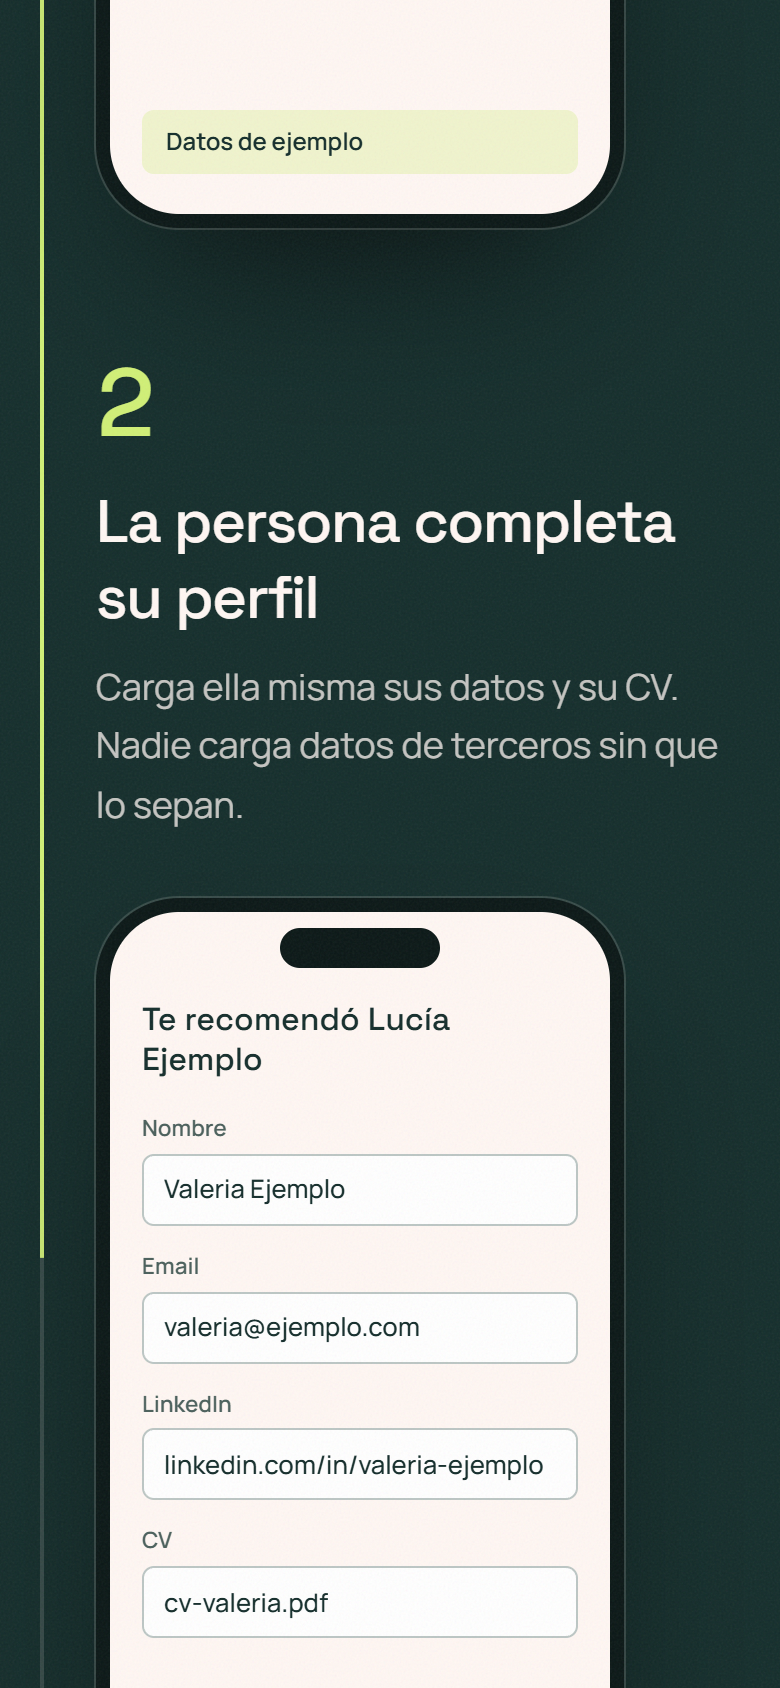
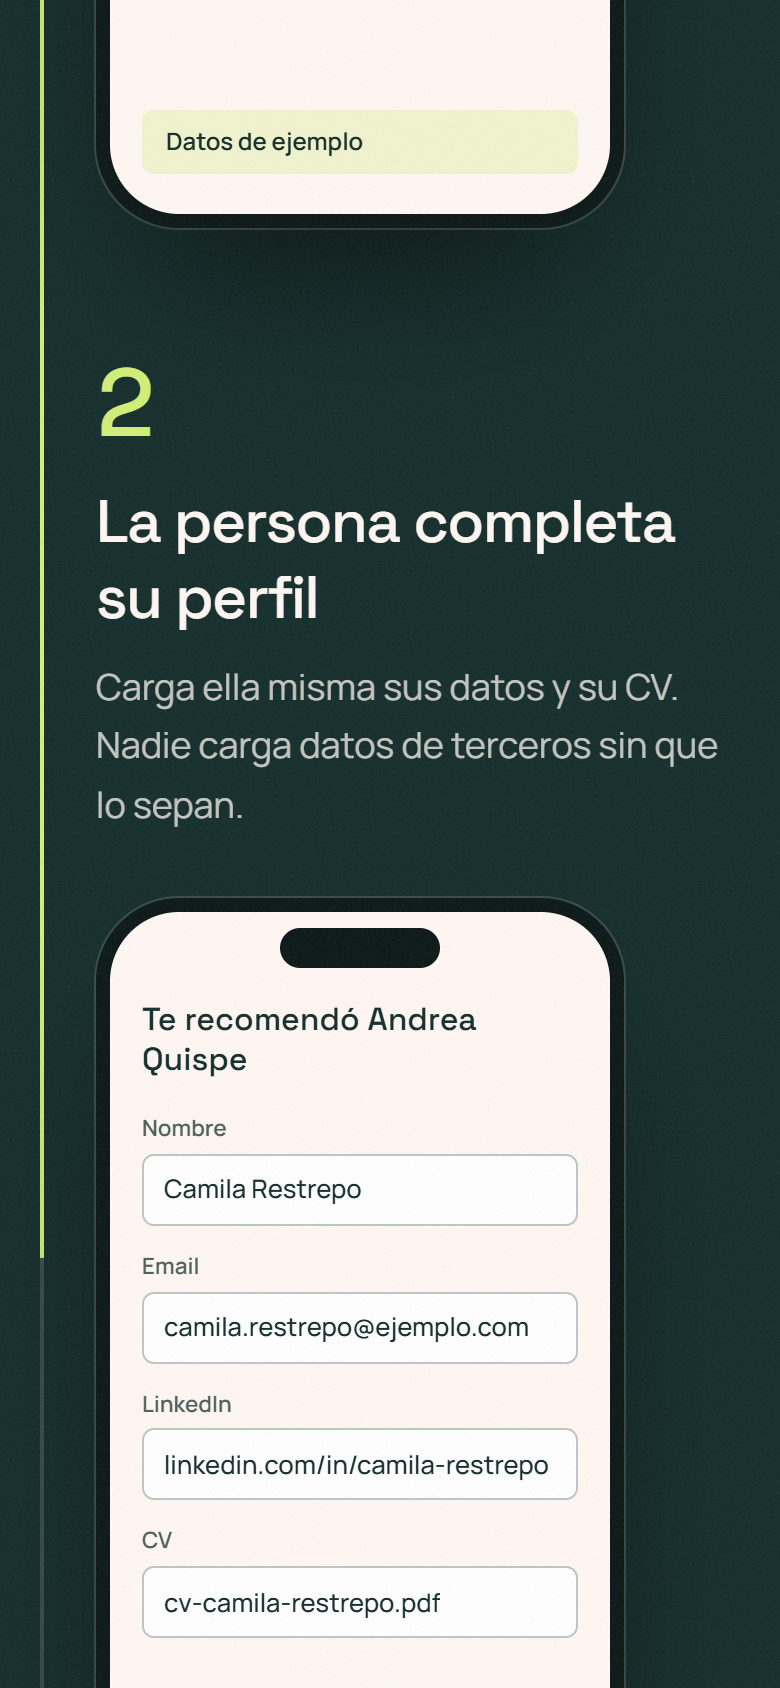
Código de referido no adivinable (nombre + sufijo base36 con crypto) y límite de intentos por IP; nombres de ejemplo verosímiles de LATAM; decisión 2, especificación y AI-LOG al día

diff --git a/app/lib/limite.ts b/app/lib/limite.ts
@@ -1,0 +1,58 @@
+import { config } from "./config";
+
+/**
+ * Límite de intentos fallidos por IP, en una ventana de tiempo deslizante.
+ * Cuenta códigos DISTINTOS que no existen: es la señal de alguien probando códigos al azar. Repetir
+ * el mismo código roto (recargar la página, o que Next la renderice dos veces) cuenta una sola vez.
+ * Vive en memoria de cada instancia del servidor: frena el barrido casual, pero en un despliegue con
+ * varias instancias el tope efectivo se multiplica. La garantía fuerte es el sufijo no adivinable; el
+ * límite compartido (base de datos o borde) queda para la etapa de producción.
+ */
+export function crearLimitador({
+  fallosMaximos,
+  ventanaMs,
+  ahora = Date.now,
+}: {
+  fallosMaximos: number;
+  ventanaMs: number;
+  ahora?: () => number;
+}) {
+  // IP -> (código fallido -> cuándo). Una IP bloqueada no suma entradas, así que cada una guarda a lo sumo `fallosMaximos`.
+  const fallos = new Map<string, Map<string, number>>();
+
+  const vigentes = (clave: string) => {
+    const desde = ahora() - ventanaMs;
+    const codigos = fallos.get(clave);
+    if (!codigos) return 0;
+    for (const [codigo, cuando] of codigos) if (cuando <= desde) codigos.delete(codigo);
+    if (!codigos.size) fallos.delete(clave);
+    return codigos.size;
+  };
+
+  return {
+    bloqueada: (clave: string) => vigentes(clave) >= fallosMaximos,
+    registrarFallo(clave: string, codigo: string) {
+      vigentes(clave);
+      const codigos = fallos.get(clave) ?? new Map<string, number>();
+      codigos.set(codigo, ahora());
+      fallos.set(clave, codigos);
+      // Evita que el mapa crezca sin límite ante un barrido desde muchas IP.
+      if (fallos.size > 10_000) for (const k of [...fallos.keys()]) vigentes(k);
+    },
+  };
+}
+
+/**
+ * Una sola instancia por proceso: Next empaqueta la página y la ruta de la API por separado, y cada
+ * paquete tendría su propio contador. Colgarlo de globalThis hace que compartan el mismo.
+ */
+const global = globalThis as typeof globalThis & { __limitadorConsultas?: ReturnType<typeof crearLimitador> };
+export const limitadorConsultas = (global.__limitadorConsultas ??= crearLimitador({
+  fallosMaximos: config.limiteConsultaCodigo.fallosMaximos,
+  ventanaMs: config.limiteConsultaCodigo.ventanaSegundos * 1000,
+}));
+
+/** IP del cliente según el proxy (Vercel agrega `x-forwarded-for`); la primera es la del cliente. */
+export function ipDelCliente(headers: Headers): string {
+  return headers.get("x-forwarded-for")?.split(",")[0]?.trim() || headers.get("x-real-ip") || "desconocida";
+}

diff --git a/app/app/r/[codigo]/page.tsx b/app/app/r/[codigo]/page.tsx
@@ -1,10 +1,12 @@
 import type { Metadata } from "next";
 import Link from "next/link";
+import { headers } from "next/headers";
 import { Suspense } from "react";
 import { Encabezado } from "@/components/Encabezado";
 import { FormularioReferido } from "@/components/FormularioReferido";
 import es from "@/i18n/es.json";
-import { buscarReferente } from "@/lib/referentes";
+import { ipDelCliente } from "@/lib/limite";
+import { consultarReferente } from "@/lib/referentes";
 import { t } from "@/lib/i18n";
 
 export const metadata: Metadata = {
@@ -40,9 +42,11 @@ function Razones({ nombre, className }: { nombre: string; className: string }) {
 
 async function Contenido({ params }: { params: PageProps<"/r/[codigo]">["params"] }) {
   const { codigo } = await params;
-  const referente = await buscarReferente(decodeURIComponent(codigo));
+  const consulta = await consultarReferente(decodeURIComponent(codigo), ipDelCliente(await headers()));
 
-  if (!referente) return <CodigoInexistente />;
+  if (consulta.tipo === "bloqueada") return <MensajeSimple clave="bloqueado" />;
+  if (consulta.tipo === "no_existe") return <MensajeSimple clave="noEncontrado" />;
+  const { referente } = consulta;
 
   const nombreCompleto = `${referente.nombre} ${referente.apellido}`;
 
@@ -72,18 +76,18 @@ async function Contenido({ params }: { params: PageProps<"/r/[codigo]">["params"
   );
 }
 
-function CodigoInexistente() {
+function MensajeSimple({ clave }: { clave: "noEncontrado" | "bloqueado" }) {
   return (
     <div className="mx-auto max-w-2xl py-16 sm:py-28">
       <h1 className="font-display text-[clamp(2.5rem,7vw,5rem)] font-medium leading-[0.98] tracking-[-0.035em]">
-        {t("candidato.noEncontrado.titulo")}
+        {t(`candidato.${clave}.titulo`)}
       </h1>
-      <p className="mt-6 text-lg leading-relaxed text-crema/80">{t("candidato.noEncontrado.texto")}</p>
+      <p className="mt-6 text-lg leading-relaxed text-crema/80">{t(`candidato.${clave}.texto`)}</p>
       <Link
         href="/"
         className="mt-9 inline-flex h-12 items-center rounded-lg bg-lima px-8 font-bold text-verde transition-transform duration-150 active:scale-[0.98]"
       >
-        {t("candidato.noEncontrado.cta")}
+        {t(`candidato.${clave}.cta`)}
       </Link>
     </div>
   );

diff --git a/app/lib/codigo.test.ts b/app/lib/codigo.test.ts
@@ -1,0 +1,57 @@
+import { describe, expect, it } from "vitest";
+import { generarCodigo, generarSufijo, normalizarNombre, tieneFormatoDeCodigo } from "./codigo";
+import { referentesDemo } from "./demo-data";
+
+describe("normalizarNombre", () => {
+  it("saca tildes, pasa a minúsculas y une con guiones", () => {
+    expect(normalizarNombre("Lucía")).toBe("lucia");
+    expect(normalizarNombre("María José")).toBe("maria-jose");
+    expect(normalizarNombre("  Ñandú! ")).toBe("nandu");
+  });
+});
+
+describe("generarSufijo", () => {
+  it("tiene 6 caracteres base36", () => {
+    for (let i = 0; i < 200; i++) expect(generarSufijo()).toMatch(/^[0-9a-z]{6}$/);
+  });
+
+  it("no repite en una muestra grande", () => {
+    const vistos = new Set(Array.from({ length: 5000 }, () => generarSufijo()));
+    expect(vistos.size).toBe(5000);
+  });
+
+  it("usa los 36 caracteres del alfabeto", () => {
+    const usados = new Set(Array.from({ length: 2000 }, () => generarSufijo()).join(""));
+    expect(usados.size).toBe(36);
+  });
+});
+
+describe("generarCodigo", () => {
+  it("une el nombre normalizado con el sufijo y pasa la validación de formato", () => {
+    const c = generarCodigo("Lucía");
+    expect(c).toMatch(/^lucia-[0-9a-z]{6}$/);
+    expect(tieneFormatoDeCodigo(c)).toBe(true);
+  });
+
+  it("usa un nombre de respaldo si no queda ningún carácter válido", () => {
+    expect(generarCodigo("***")).toMatch(/^ref-[0-9a-z]{6}$/);
+  });
+});
+
+describe("tieneFormatoDeCodigo", () => {
+  it("acepta los códigos de la demo", () => {
+    for (const r of referentesDemo) expect(tieneFormatoDeCodigo(r.codigo)).toBe(true);
+  });
+
+  it("rechaza el formato viejo, que era solo el nombre", () => {
+    expect(tieneFormatoDeCodigo("lucia-gomez")).toBe(false);
+    expect(tieneFormatoDeCodigo("martin-ferreyra")).toBe(false);
+  });
+
+  it("rechaza mayúsculas, caracteres raros y largos excesivos", () => {
+    expect(tieneFormatoDeCodigo("Lucia-K7Q2M9")).toBe(false);
+    expect(tieneFormatoDeCodigo("lucia-k7q2m")).toBe(false);
+    expect(tieneFormatoDeCodigo("../etc/passwd")).toBe(false);
+    expect(tieneFormatoDeCodigo(`${"a".repeat(80)}-k7q2m9`)).toBe(false);
+  });
+});

diff --git a/app/lib/limite.test.ts b/app/lib/limite.test.ts
@@ -1,0 +1,52 @@
+import { describe, expect, it } from "vitest";
+import { crearLimitador, ipDelCliente } from "./limite";
+
+function limitadorConReloj(fallosMaximos = 3, ventanaMs = 1000) {
+  let ahora = 0;
+  const l = crearLimitador({ fallosMaximos, ventanaMs, ahora: () => ahora });
+  return { l, avanzar: (ms: number) => (ahora += ms) };
+}
+
+describe("crearLimitador", () => {
+  it("bloquea al llegar al máximo de fallos", () => {
+    const { l } = limitadorConReloj();
+    l.registrarFallo("1.1.1.1", "a-000001");
+    l.registrarFallo("1.1.1.1", "a-000002");
+    expect(l.bloqueada("1.1.1.1")).toBe(false);
+    l.registrarFallo("1.1.1.1", "a-000003");
+    expect(l.bloqueada("1.1.1.1")).toBe(true);
+  });
+
+  it("repetir el mismo código roto cuenta una sola vez", () => {
+    const { l } = limitadorConReloj(2);
+    for (let i = 0; i < 10; i++) l.registrarFallo("1.1.1.1", "a-000001");
+    expect(l.bloqueada("1.1.1.1")).toBe(false);
+  });
+
+  it("cuenta por IP: otra IP sigue libre", () => {
+    const { l } = limitadorConReloj(1);
+    l.registrarFallo("1.1.1.1", "a-000001");
+    expect(l.bloqueada("1.1.1.1")).toBe(true);
+    expect(l.bloqueada("2.2.2.2")).toBe(false);
+  });
+
+  it("libera cuando los fallos salen de la ventana", () => {
+    const { l, avanzar } = limitadorConReloj(2, 1000);
+    l.registrarFallo("1.1.1.1", "a-000001");
+    l.registrarFallo("1.1.1.1", "a-000002");
+    expect(l.bloqueada("1.1.1.1")).toBe(true);
+    avanzar(1001);
+    expect(l.bloqueada("1.1.1.1")).toBe(false);
+  });
+});
+
+describe("ipDelCliente", () => {
+  it("toma la primera IP de x-forwarded-for", () => {
+    expect(ipDelCliente(new Headers({ "x-forwarded-for": "203.0.113.7, 10.0.0.1" }))).toBe("203.0.113.7");
+  });
+
+  it("usa x-real-ip y, sin nada, un valor fijo", () => {
+    expect(ipDelCliente(new Headers({ "x-real-ip": "198.51.100.4" }))).toBe("198.51.100.4");
+    expect(ipDelCliente(new Headers())).toBe("desconocida");
+  });
+});

diff --git a/app/lib/codigo.ts b/app/lib/codigo.ts
@@ -1,0 +1,43 @@
+/**
+ * Código de referido: nombre normalizado + sufijo aleatorio ("lucia-k7q2m9").
+ * El nombre solo hace el link legible; la protección está en el sufijo, que no se puede adivinar:
+ * 6 caracteres base36 (36^6, unos 2.200 millones de combinaciones) sacados de un generador criptográfico.
+ */
+const ALFABETO = "0123456789abcdefghijklmnopqrstuvwxyz";
+export const LARGO_SUFIJO = 6;
+
+/** Formato válido: partes en minúsculas unidas por guiones y, al final, un sufijo de 6 caracteres. */
+const FORMATO = /^[a-z0-9]+(?:-[a-z0-9]+)*-[a-z0-9]{6}$/;
+const LARGO_MAXIMO = 64;
+
+/** "María José" -> "maria-jose". Sin tildes, solo a-z y 0-9. */
+export function normalizarNombre(nombre: string): string {
+  return nombre
+    .normalize("NFD")
+    .replace(/[̀-ͯ]/g, "")
+    .toLowerCase()
+    .replace(/[^a-z0-9]+/g, "-")
+    .replace(/^-+|-+$/g, "");
+}
+
+/** Sufijo base36 con rechazo de bytes sobrantes, para que los 36 caracteres sean igual de probables. */
+export function generarSufijo(largo = LARGO_SUFIJO): string {
+  const limite = 256 - (256 % ALFABETO.length); // 252: los bytes de 252 a 255 se descartan
+  let sufijo = "";
+  while (sufijo.length < largo) {
+    const bytes = crypto.getRandomValues(new Uint8Array(largo * 2));
+    for (const b of bytes) {
+      if (b < limite && sufijo.length < largo) sufijo += ALFABETO[b % ALFABETO.length];
+    }
+  }
+  return sufijo;
+}
+
+export function generarCodigo(nombre: string): string {
+  return `${normalizarNombre(nombre) || "ref"}-${generarSufijo()}`;
+}
+
+/** Descarta a primera vista lo que no puede ser un código, sin consultar la base. */
+export function tieneFormatoDeCodigo(codigo: string): boolean {
+  return codigo.length <= LARGO_MAXIMO && FORMATO.test(codigo);
+}

diff --git a/app/app/api/referir/route.ts b/app/app/api/referir/route.ts
@@ -3,7 +3,8 @@ import es from "@/i18n/es.json";
 import { emailFallaDemo, emailYaRegistradoDemo } from "@/lib/demo-data";
 import { esDemo } from "@/lib/demo";
 import { esquemaCandidato, normalizarLinkedin } from "@/lib/esquema";
-import { buscarReferente } from "@/lib/referentes";
+import { ipDelCliente } from "@/lib/limite";
+import { consultarReferente } from "@/lib/referentes";
 
 /**
  * Decisión 29: el navegador solo habla con esta ruta. Acá se verifica reCAPTCHA y se
@@ -13,6 +14,7 @@ import { buscarReferente } from "@/lib/referentes";
  *   200 { resultado: "registrado" | "ya_registrado" }
  *   404 { resultado: "codigo_invalido" }
  *   422 { resultado: "datos_invalidos", errores: { campo: mensaje } }
+ *   429 { resultado: "error", mensaje }  (demasiados códigos inválidos desde la misma IP)
  *   4xx/5xx { resultado: "error", mensaje }
  */
 export type RespuestaReferir =
@@ -52,9 +54,10 @@ export async function POST(request: Request) {
     return responder({ resultado: "error", mensaje: errores.servidor }, 400);
   }
 
-  const codigo = String(form.get("codigo_referente") ?? "").trim().toLowerCase();
-  const referente = codigo ? await buscarReferente(codigo) : null;
-  if (!referente) return responder({ resultado: "codigo_invalido" }, 404);
+  const consulta = await consultarReferente(String(form.get("codigo_referente") ?? ""), ipDelCliente(request.headers));
+  if (consulta.tipo === "bloqueada") return responder({ resultado: "error", mensaje: errores.demasiados }, 429);
+  if (consulta.tipo === "no_existe") return responder({ resultado: "codigo_invalido" }, 404);
+  const { referente } = consulta;
 
   const crudo = {
     nombre: form.get("nombre") ?? "",

diff --git a/app/lib/referentes.ts b/app/lib/referentes.ts
@@ -1,5 +1,7 @@
 import { referentesDemo, type Referente } from "./demo-data";
 import { esDemo } from "./demo";
+import { tieneFormatoDeCodigo } from "./codigo";
+import { limitadorConsultas } from "./limite";
 
 /** Busca al referente dueño de un código. Devuelve null si no existe. */
 export async function buscarReferente(codigo: string): Promise<Referente | null> {
@@ -8,4 +10,22 @@ export async function buscarReferente(codigo: string): Promise<Referente | null>
   }
   // Tarea 2 (base de datos): leer `referentes` por codigo_referido, solo colocados.
   throw new Error("Lectura de referentes desde Supabase pendiente (PLAN.md, tarea 2)");
+}
+
+export type Consulta = { tipo: "ok"; referente: Referente } | { tipo: "no_existe" } | { tipo: "bloqueada" };
+
+/**
+ * Consulta de un código desde la web: descarta lo que no tiene formato, aplica el límite de intentos
+ * fallidos por IP y cuenta como fallo cada código distinto que no existe. Con la IP bloqueada ni siquiera
+ * un código válido responde, para que el barrido no pueda confirmar aciertos.
+ */
+export async function consultarReferente(codigo: string, ip: string): Promise<Consulta> {
+  if (limitadorConsultas.bloqueada(ip)) return { tipo: "bloqueada" };
+  const normalizado = codigo.trim().toLowerCase();
+  const referente = tieneFormatoDeCodigo(normalizado) ? await buscarReferente(normalizado) : null;
+  if (!referente) {
+    limitadorConsultas.registrarFallo(ip, normalizado);
+    return { tipo: "no_existe" };
+  }
+  return { tipo: "ok", referente };
 }

diff --git a/app/lib/demo-data.ts b/app/lib/demo-data.ts
@@ -2,9 +2,9 @@
 export type Referente = { codigo: string; nombre: string; apellido: string };
 
 export const referentesDemo: Referente[] = [
-  { codigo: "lucia-gomez", nombre: "Lucía", apellido: "Gómez" },
-  { codigo: "martin-ferreyra", nombre: "Martín", apellido: "Ferreyra" },
-  { codigo: "camila-duarte", nombre: "Camila", apellido: "Duarte" },
+  { codigo: "lucia-k7q2m9", nombre: "Lucía", apellido: "Gómez" },
+  { codigo: "martin-x4d8w1", nombre: "Martín", apellido: "Ferreyra" },
+  { codigo: "camila-p3n6z5", nombre: "Camila", apellido: "Duarte" },
 ];
 
 /** Este email simula a alguien que ya estaba en el talent pool. */

diff --git a/app/lib/config.ts b/app/lib/config.ts
@@ -18,6 +18,7 @@ export const config = {
   plazoRespuestaCandidatoDiasHabiles: 5,
   plazoRevisionDiasHabiles: 3,
   alertaVolumen: { cantidad: 5, dias: 7 },
+  limiteConsultaCodigo: { fallosMaximos: 10, ventanaSegundos: 600 },
   cvMaxMb: 5,
 } as const;
 

diff --git a/DECISIONS.md b/DECISIONS.md
@@ -13,7 +13,7 @@ Formato para decisiones nuevas: **N. Título** — decisión · por qué · alte
 
 **1. Quién refiere** — Solo profesionales **colocados** por WorldTeams que trabajan con una firma cliente. Tienen sueldo donde cobrar, su criterio ya fue validado, no hay conflicto de intereses (como alguien en proceso de selección) y tienen menos urgencia económica y más reputación en juego, lo que reduce referidos flojos (hipótesis de diseño). Descartado: cualquier persona, o candidatos sin colocar → segunda etapa.
 
-**2. Cómo se refiere** — Link personal y único por referente (`/r/{codigo}`). El candidato carga sus propios datos. Descartado: que el referente cargue datos de terceros (sin consentimiento, depende del esfuerzo del referente).
+**2. Cómo se refiere** — Link personal y único por referente (`/r/{codigo}`), con código = nombre normalizado + sufijo aleatorio no adivinable de 6 caracteres base36 generado con crypto (ej. `/r/lucia-k7q2m9`, unos 2.200 millones de combinaciones). El candidato carga sus propios datos. · por qué: un código que fuera solo el nombre se podía adivinar, permitía atribuciones falsas (usar el link de otro) y exponía quién trabaja con WorldTeams; el nombre queda solo para que el link sea legible · límite: la consulta de un código aplica un tope de intentos fallidos por IP (10 en 10 minutos, configurable); con la IP bloqueada ni un código válido responde, y el formato se descarta antes de consultar la base · [supuesto] el límite en memoria frena el barrido casual; en producción con varias instancias se pasa a un contador compartido (base de datos o borde) · Descartado: que el referente cargue datos de terceros (sin consentimiento, depende del esfuerzo del referente); código solo con el nombre (adivinable); código totalmente opaco (el nombre ayuda a que el candidato reconozca el link y desconfíe menos).
 
 **3. Tipo de premio** — Efectivo. Consulta informal a 6 personas: 5 prefirieron efectivo por flexibilidad ("con la plata podés hacer lo mismo que ofrece un catálogo"); 1 prefirió créditos (premio con destino fijo). Descartado: créditos canjeables (logística de premios en LATAM, costo impredecible).
 
@@ -97,7 +97,7 @@ Punto de equilibrio: el programa se paga solo si al menos X% de los referidos te
 ## Especificación del modelo de datos
 
 **Tablas**
-- `referentes`: id, nombre, apellido, email (único, normalizado), linkedin_url, codigo_referido (único), colocado (bool), auth_user_id, creado_en.
+- `referentes`: id, nombre, apellido, email (único, normalizado), linkedin_url, codigo_referido (único; nombre normalizado + sufijo aleatorio base36 de 6 caracteres generado con CSPRNG; `CHECK` de formato `^[a-z0-9]+(-[a-z0-9]+)*-[a-z0-9]{6}$`; se genera una sola vez y no se reutiliza), colocado (bool), auth_user_id, creado_en.
 - `candidatos`: id, nombre, apellido, email (único, normalizado), linkedin_url (único, normalizado), especialidad, usa_revit, seniority, nivel_ingles, cv_url, acepto_visibilidad, origen, creado_en. `es_prioritario` = columna generada (arquitectura AND usa_revit AND senior AND inglés avanzado o nativo).
 - `referidos`: id, referente_id, candidato_id, estado, motivos_revision (array), validado_en, creado_en. Índice único parcial en candidato_id donde estado <> 'descartado'.
 - `historial_estados`: id, referido_id, estado_anterior, estado_nuevo, actor_tipo (sistema/reclutamiento), actor_id, motivo, creado_en. Solo inserción.
@@ -109,7 +109,7 @@ Punto de equilibrio: el programa se paga solo si al menos X% de los referidos te
 
 **Estados del referido**: inicio → `descartado` (ya en pool, duplicado, autorreferido) | `registrado` → `validado` (automático) | `en_revision` → `validado` | `rechazado`. Finales: validado, rechazado, descartado. Una sanción no cambia el estado: pasa los movimientos pendientes a `cancelado_sancion`.
 
-**Configuración inicial**: monto_base_usd 50 · multiplicador_prioritario 2 · hitos [{3:75},{6:150},{10:300}] · periodo_hitos año calendario · dia_corte_pago 25 · alerta_volumen {cantidad 5, dias 7} · plazo_respuesta_candidato_dias_habiles 5 · plazo_revision_dias_habiles 3.
+**Configuración inicial**: monto_base_usd 50 · multiplicador_prioritario 2 · hitos [{3:75},{6:150},{10:300}] · periodo_hitos año calendario · dia_corte_pago 25 · alerta_volumen {cantidad 5, dias 7} · plazo_respuesta_candidato_dias_habiles 5 · plazo_revision_dias_habiles 3 · limite_consulta_codigo {fallos 10, segundos 600}.
 
 **RLS**: referente → lee solo lo suyo (nombre y estado de sus referidos vía vista); reclutamiento → lee candidatos/referidos/historial; n8n (service role) → único que escribe referidos y movimientos.
 

diff --git a/AI-LOG.md b/AI-LOG.md
@@ -19,5 +19,7 @@
 | Calculadora de premios | Dos controles sueltos: personas a recomendar y cuántas son prioritarias | Pidió que el control de prioritarias nunca supere el total, que el texto diga "por año" (los hitos son por año calendario) y que se aclare que es una estimación (pendiente de construir con la página "/") |
 | Git | Había dejado `git init` para la tarea del miércoles | Pidió hacerlo ya, con `.gitignore` que incluya `.env` y commits chicos por cada paso |
 | Diseño del formulario | Botones grandes de opciones apilados, campos con mucho aire, un solo bloque largo, placeholders con nombres de ejemplo y tarjeta de 28 px de radio: se veía estirado | Pidió 3 bloques numerados (datos, perfil profesional, CV), controles segmentados de una línea (~40 px, radiogroup), inputs de ~44 px, radio de 8 px parejo, CV en una línea, checkbox con texto en primera persona, dos columnas con bienvenida fija en escritorio y revisar las franjas de fondo en móvil |
+| Código del link de referido | Propuse que el código fuera el nombre del referente (`/r/lucia-gomez`), sin pensar en seguridad | Lo detecté yo: es adivinable, permite atribuciones falsas y expone quién trabaja con WorldTeams. Pedí nombre + sufijo aleatorio no adivinable (6 caracteres base36 con crypto) y limitación de intentos por IP. Quedó en la decisión 2 y en la especificación de `codigo_referido` |
+| Nombres de ejemplo | Usé nombres genéricos en las maquetas ("Valeria Ejemplo", "Tomás Muestra", "Nora Prueba", "Iván Demo") | Pidió nombres verosímiles y variados de LATAM (Camila Restrepo, Joaquín Ferreyra, Mariana Sousa), manteniendo la etiqueta visible "Datos de ejemplo". Los genéricos se leían como relleno y no mostraban cómo se vería el portal con gente real |
 
 <!-- Claude Code: agregá una fila cada vez que Mateo corrija o rechace algo que propongas. -->
